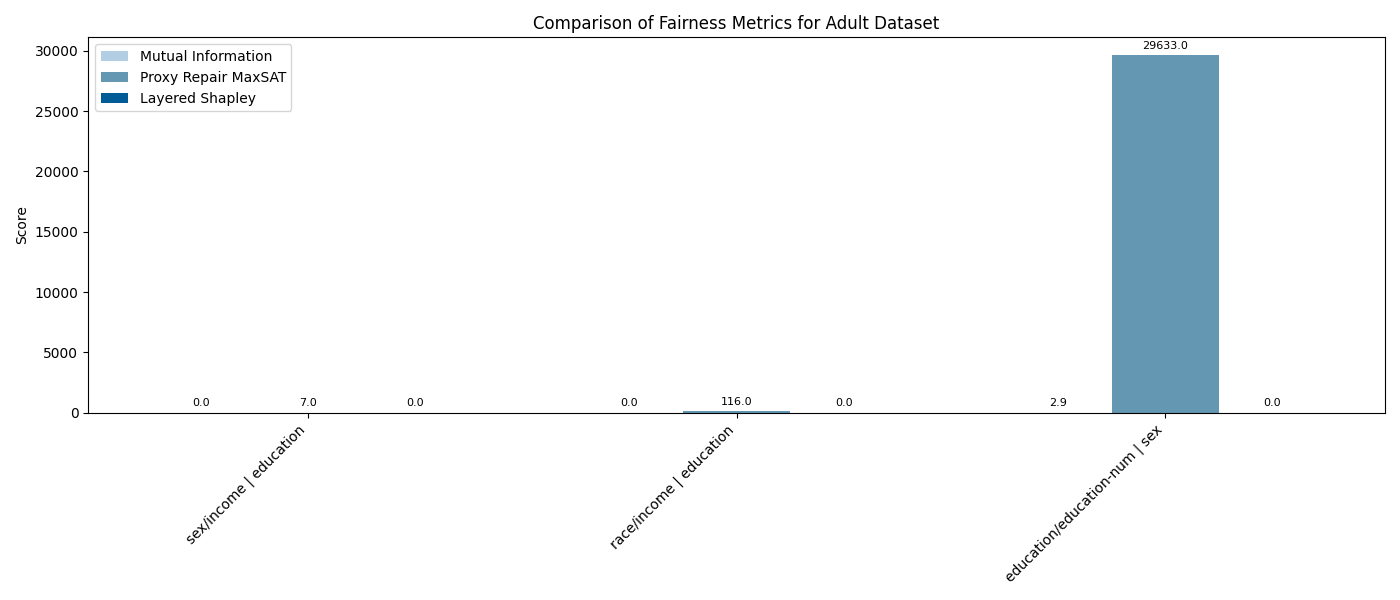
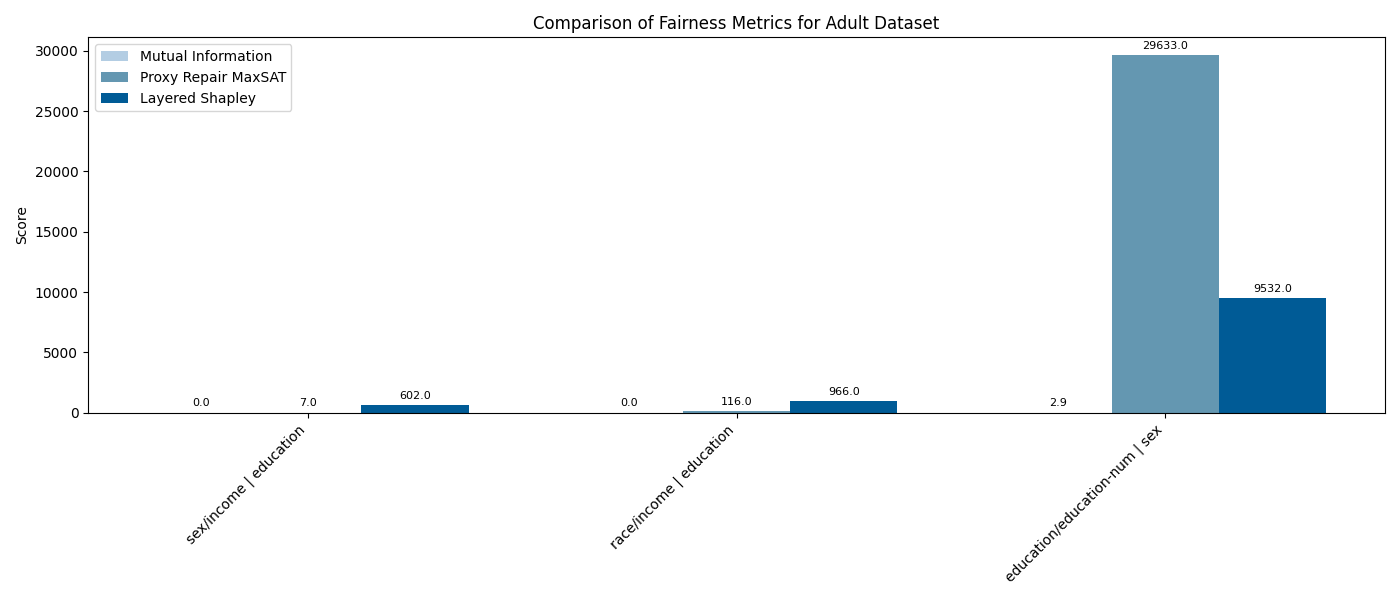
Fixed bug

Changed region(s): [[0.86, 0.48, 0.9521, 0.69], [0.5529, 0.63, 0.645, 0.69], [0.2457, 0.66, 0.3379, 0.69]]

diff --git a/shapley_values.py b/shapley_values.py
@@ -155,7 +155,7 @@ class LayeredShapleyValues:
             for _ in range(m_k):
                 S = random.sample(D, k)
                 D_minus_S = self._remove_multiset(D, S)
-                D_minus_S_minus_t = D_minus_S
+                D_minus_S_minus_t = D_minus_S.copy()
                 try:
                     D_minus_S_minus_t.remove(t)
                 except ValueError:
@@ -198,11 +198,10 @@ class LayeredShapleyValues:
 
         total = vals.sum()
         if total <= 0:
-            return 0.0, []  # nothing to select
+            return 0  # nothing to select
 
         cum = np.cumsum(vals)
         k = int(np.searchsorted(cum, 0.5 * total))  # index of half-mass cutoff
-        thr = float(vals[k])  # threshold value on y-axis
 
         num_flagged_tuples = 0
         for i in range(k + 1):
